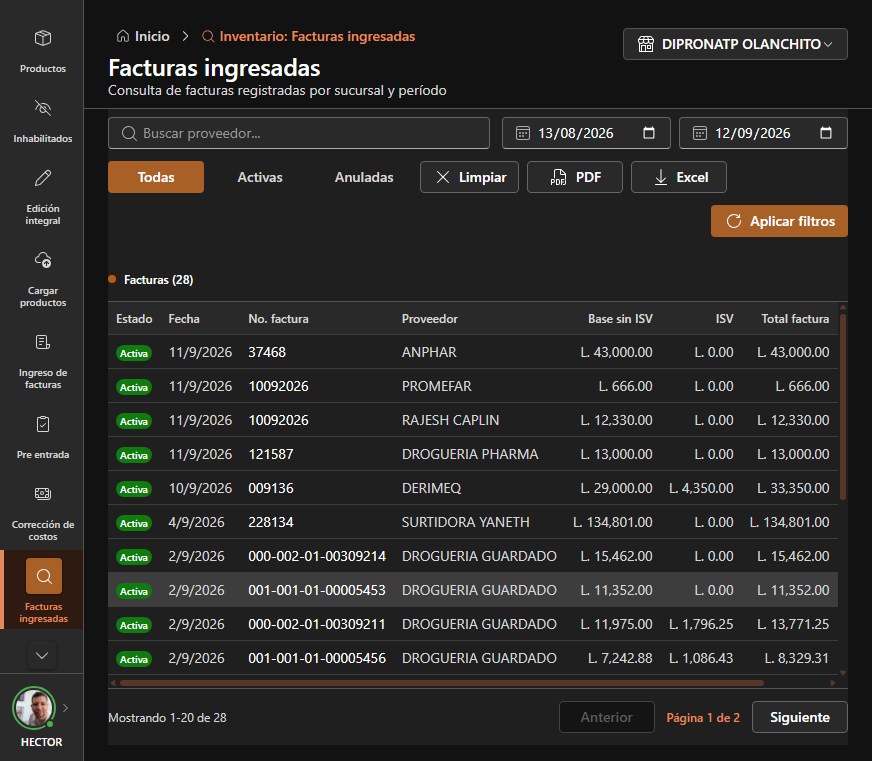
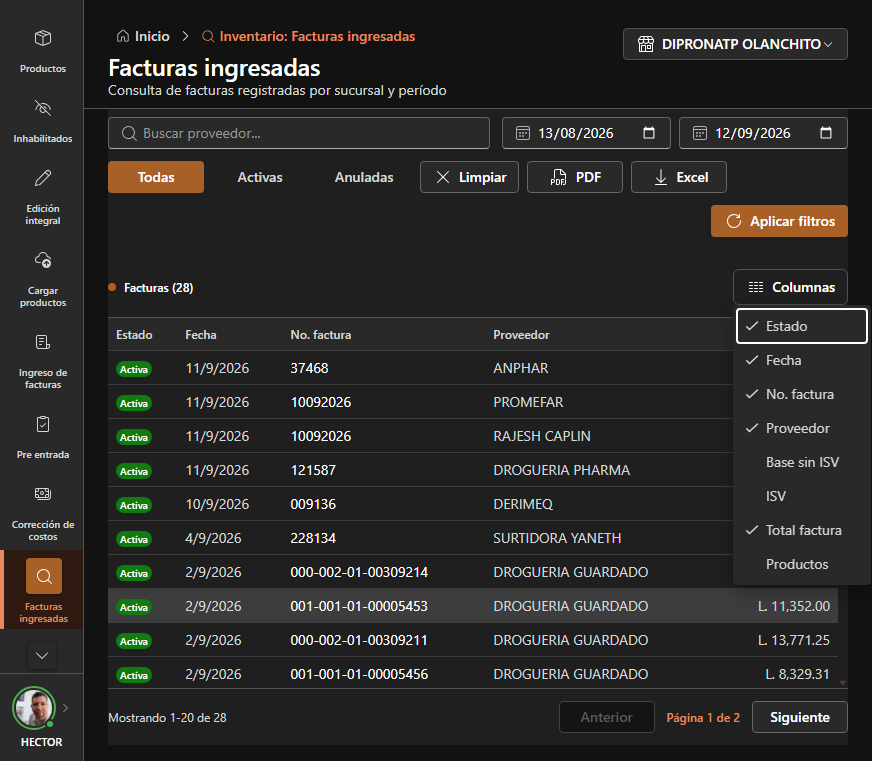
Update Después shots: Columnas en Productos, Inhabilitados, Facturas, Vencimientos

diff --git a/index.html b/index.html
@@ -26,7 +26,7 @@
 <body>
   <header>
     <h1>Payly · Fluent Inventario</h1>
-    <p class="sub">Antes / después · Inventario completo</p>
+    <p class="sub">Antes / después — Inventario + Columnas</p>
   </header>
   <nav class="tabs" id="tabs" aria-label="Páginas"></nav>
   <main id="main"><p class="empty">Cargando capturas…</p></main>
@@ -70,4 +70,5 @@
   </script>
 </body>
 </html>
+
 
